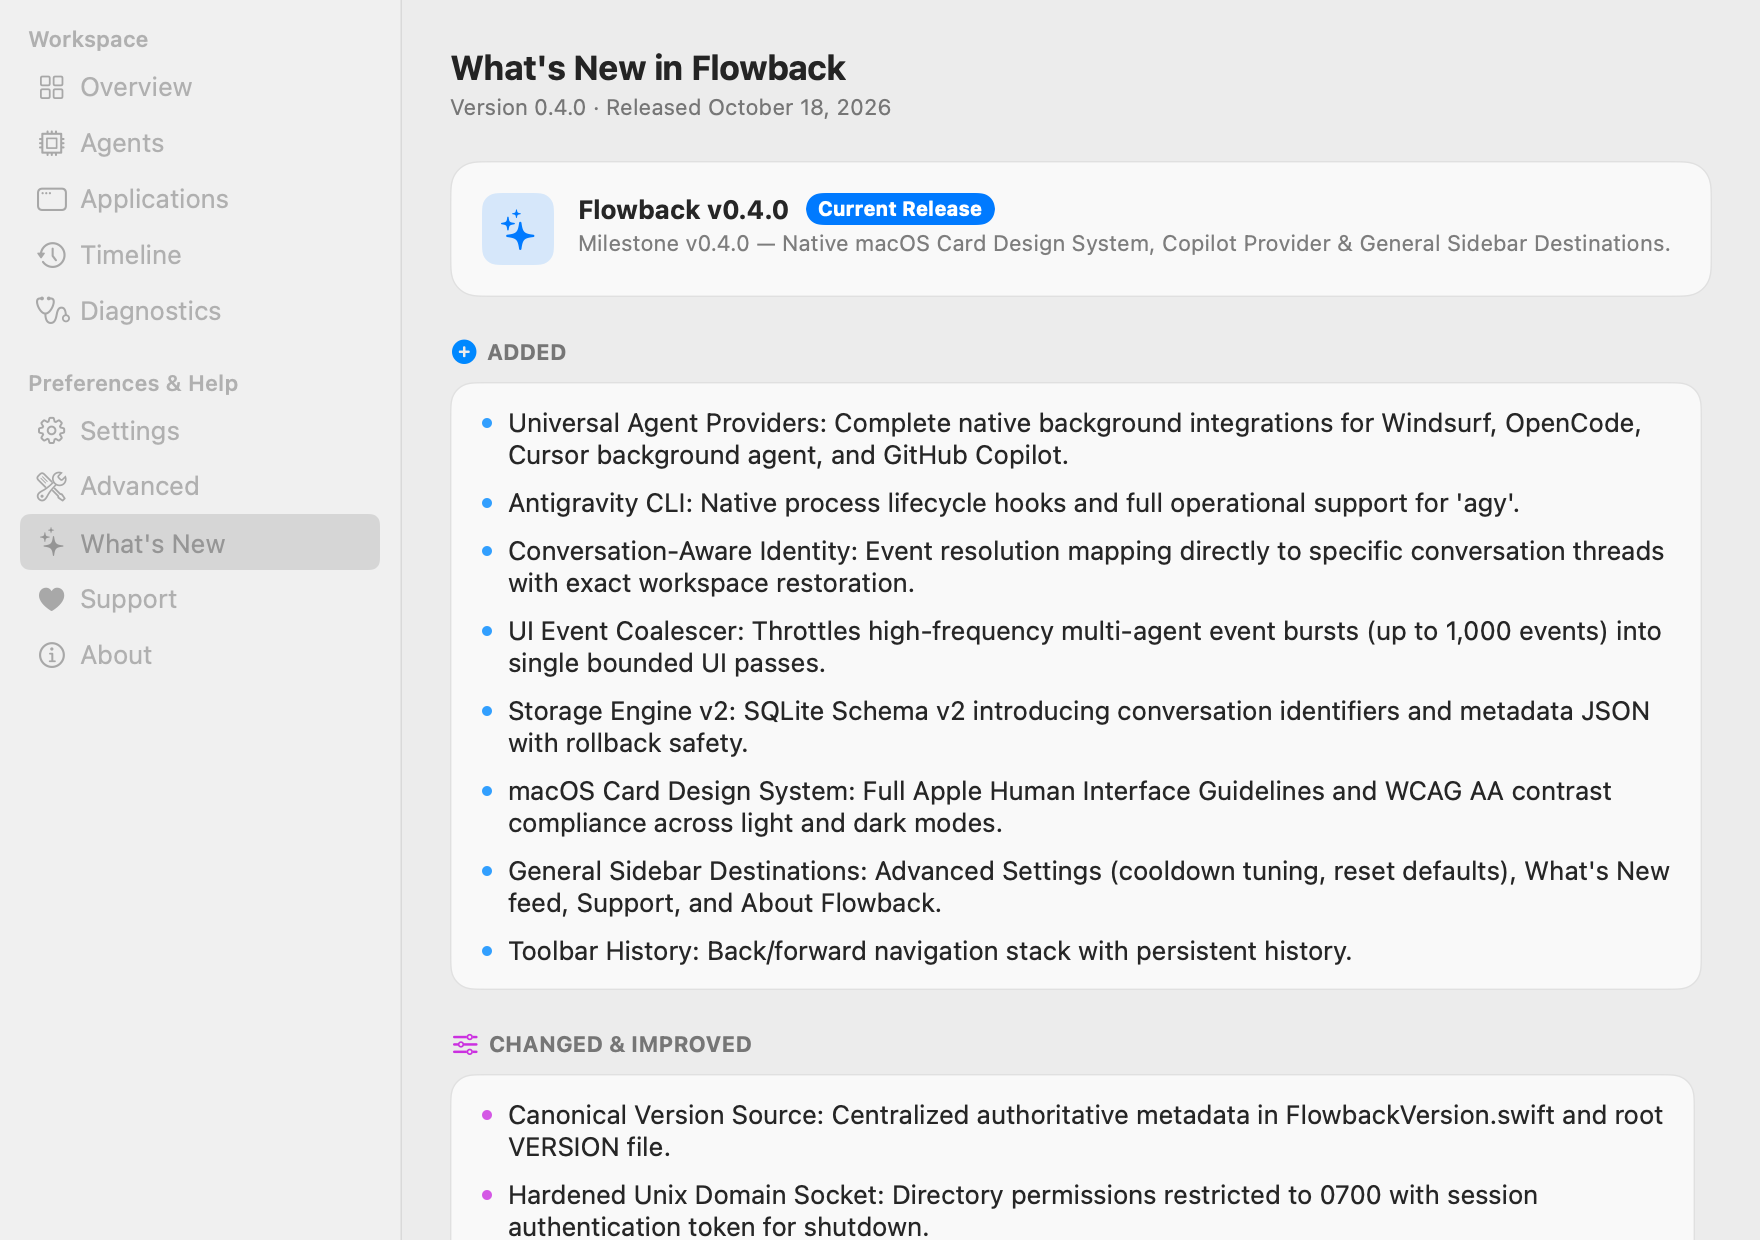
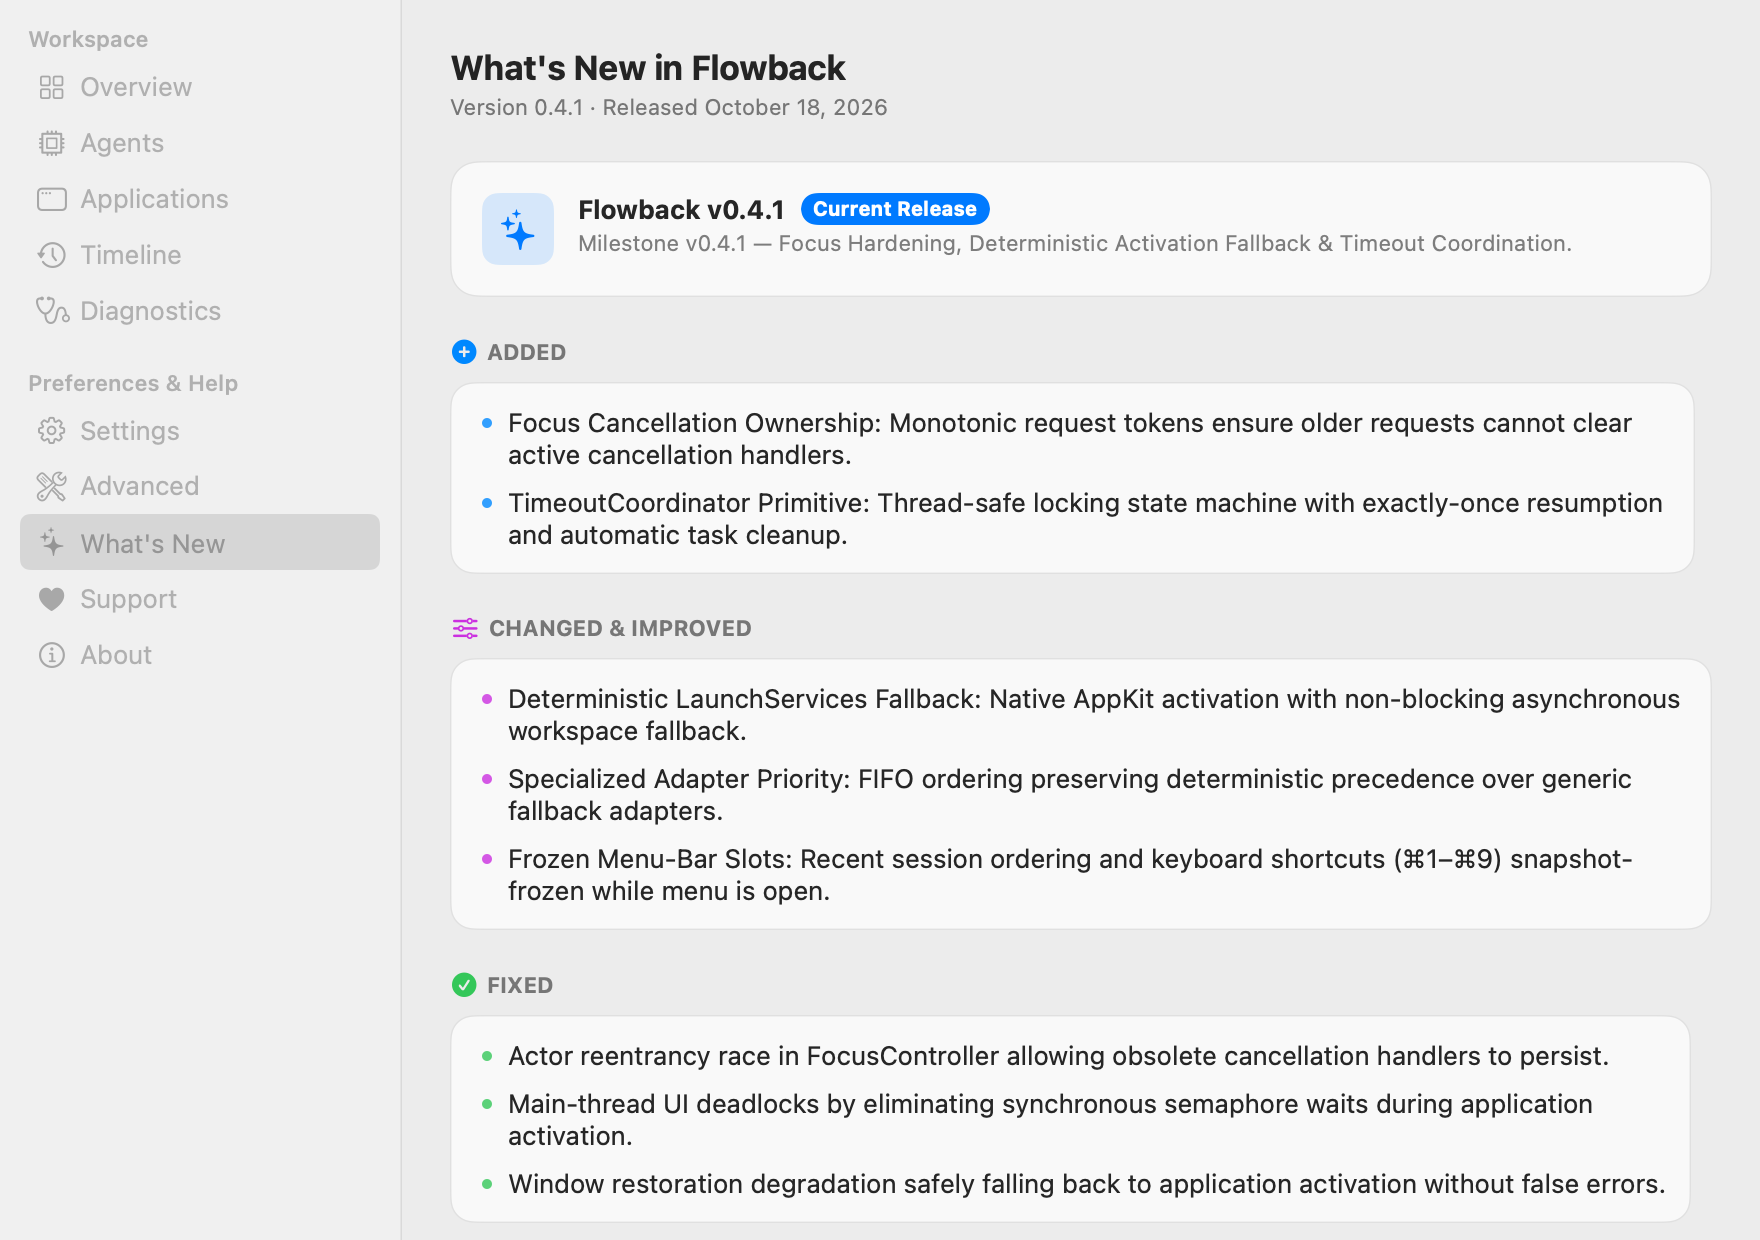
chore(release): bump version to v0.4.1 (build 2)

diff --git a/Sources/FlowbackUI/Common/ReleaseNotesModel.swift b/Sources/FlowbackUI/Common/ReleaseNotesModel.swift
@@ -44,6 +44,56 @@ public enum ReleaseNotesModel: Sendable {
     /// Canonical bundled release notes, sorted in reverse chronological order (latest first)
     public static let bundledNotes: [ReleaseNote] = [
         ReleaseNote(
+            id: "release-0.4.1",
+            version: "0.4.1",
+            date: "October 18, 2026",
+            summary: "Milestone v0.4.1 — Focus Hardening, Deterministic Activation Fallback & Timeout Coordination.",
+            sections: [
+                ReleaseNoteSection(
+                    title: "Added",
+                    icon: "plus.circle.fill",
+                    items: [
+                        "Focus Cancellation Ownership: Monotonic request tokens ensure older requests cannot clear active cancellation handlers.",
+                        "TimeoutCoordinator Primitive: Thread-safe locking state machine with exactly-once resumption and automatic task cleanup."
+                    ]
+                ),
+                ReleaseNoteSection(
+                    title: "Changed & Improved",
+                    icon: "slider.horizontal.3",
+                    items: [
+                        "Deterministic LaunchServices Fallback: Native AppKit activation with non-blocking asynchronous workspace fallback.",
+                        "Specialized Adapter Priority: FIFO ordering preserving deterministic precedence over generic fallback adapters.",
+                        "Frozen Menu-Bar Slots: Recent session ordering and keyboard shortcuts (⌘1–⌘9) snapshot-frozen while menu is open."
+                    ]
+                ),
+                ReleaseNoteSection(
+                    title: "Fixed",
+                    icon: "checkmark.circle.fill",
+                    items: [
+                        "Actor reentrancy race in FocusController allowing obsolete cancellation handlers to persist.",
+                        "Main-thread UI deadlocks by eliminating synchronous semaphore waits during application activation.",
+                        "Window restoration degradation safely falling back to application activation without false errors."
+                    ]
+                ),
+                ReleaseNoteSection(
+                    title: "Security & Privacy",
+                    icon: "lock.shield.fill",
+                    items: [
+                        "Strict Concurrency & Hardened Runtime: Elimination of continuation double-resumption and task handle retention.",
+                        "100% Local Isolation: Zero telemetry and complete local offline execution."
+                    ]
+                ),
+                ReleaseNoteSection(
+                    title: "Known Limitations",
+                    icon: "exclamationmark.triangle",
+                    items: [
+                        "macOS WindowServer security policies govern window raising across distinct macOS Spaces.",
+                        "Running without Accessibility permissions gracefully degrades to application-level switching rather than specific window raising."
+                    ]
+                )
+            ]
+        ),
+        ReleaseNote(
             id: "release-0.4.0",
             version: "0.4.0",
             date: "October 18, 2026",

diff --git a/Sources/FlowbackTestRunner/main.swift b/Sources/FlowbackTestRunner/main.swift
@@ -869,11 +869,11 @@ await runFocusHardeningAndConcurrencySuites()
 
 // 28. Canonical Version Metadata Consistency Suite
 await testGroup("Canonical Version Metadata Consistency") {
-    assertTest(FlowbackVersion.marketingVersion == "0.4.0", "FlowbackVersion marketingVersion is 0.4.0")
-    assertTest(FlowbackVersion.buildNumber == "1", "FlowbackVersion buildNumber is 1")
-    assertTest(FlowbackVersion.current == "0.4.0", "FlowbackVersion.current defaults to 0.4.0 outside bundle")
-    assertTest(FlowbackVersion.currentBuild == "1", "FlowbackVersion.currentBuild defaults to 1 outside bundle")
-    assertTest(FlowbackVersion.displayString.contains("Flowback v0.4.0 (build 1)"), "FlowbackVersion displayString formatted correctly")
+    assertTest(FlowbackVersion.marketingVersion == "0.4.1", "FlowbackVersion marketingVersion is 0.4.1")
+    assertTest(FlowbackVersion.buildNumber == "2", "FlowbackVersion buildNumber is 2")
+    assertTest(FlowbackVersion.current == "0.4.1", "FlowbackVersion.current defaults to 0.4.1 outside bundle")
+    assertTest(FlowbackVersion.currentBuild == "2", "FlowbackVersion.currentBuild defaults to 2 outside bundle")
+    assertTest(FlowbackVersion.displayString.contains("Flowback v0.4.1 (build 2)"), "FlowbackVersion displayString formatted correctly")
 
     let diag = DiagnosticReportContext()
     assertTest(diag.appVersion == FlowbackVersion.current, "DiagnosticReportContext adopts FlowbackVersion.current")

diff --git a/Sources/FlowbackTestRunner/GeneralSidebarDestinationsSuites.swift b/Sources/FlowbackTestRunner/GeneralSidebarDestinationsSuites.swift
@@ -272,7 +272,7 @@ func runGeneralSidebarDestinationsSuites() async {
             return
         }
 
-        assertTest(firstNote.version == "0.4.0", "V-021: Current release version is 0.4.0")
+        assertTest(firstNote.version == "0.4.1", "V-021: Current release version is 0.4.1")
         assertTest(firstNote.date == "October 18, 2026", "V-021: Release date is verified: October 18, 2026")
         assertTest(!firstNote.summary.isEmpty, "V-021: Release summary is defined")
         assertTest(firstNote.sections.count == 5, "V-021: Defines exactly 5 categorized subsections")
@@ -290,7 +290,7 @@ func runGeneralSidebarDestinationsSuites() async {
         }
 
         // Current helper returns latest
-        assertTest(ReleaseNotesModel.current?.version == "0.4.0", "V-021: ReleaseNotesModel.current returns latest version")
+        assertTest(ReleaseNotesModel.current?.version == "0.4.1", "V-021: ReleaseNotesModel.current returns latest version")
 
         // Offline Empty State Handling
         let emptyView = WhatsNewView(releaseNotes: [])

diff --git a/Sources/FlowbackCore/FlowbackVersion.swift b/Sources/FlowbackCore/FlowbackVersion.swift
@@ -3,10 +3,10 @@ import Foundation
 /// Canonical authoritative source of Flowback product versioning metadata.
 public struct FlowbackVersion: Sendable {
     /// Semantic product version (MAJOR.MINOR.PATCH)
-    public static let marketingVersion: String = "0.4.0"
+    public static let marketingVersion: String = "0.4.1"
 
     /// Monotonically increasing build number for bundle packaging
-    public static let buildNumber: String = "1"
+    public static let buildNumber: String = "2"
 
     /// Current version string, prioritizing CFBundleShortVersionString when running in an app bundle,
     /// falling back cleanly to canonical marketingVersion in standalone/CLI execution.

diff --git a/Formula/flowback-cli.rb b/Formula/flowback-cli.rb
@@ -1,8 +1,8 @@
 class FlowbackCli < Formula
   desc "Command-line interface for Flowback focus and context orchestrator"
   homepage "https://rapheljr.github.io/flowback/"
-  url "https://github.com/rapheljr/flowback/archive/refs/tags/v0.4.0.tar.gz"
-  version "0.4.0"
+  url "https://github.com/rapheljr/flowback/archive/refs/tags/v0.4.1.tar.gz"
+  version "0.4.1"
   sha256 "0000000000000000000000000000000000000000000000000000000000000000"
   license "MIT"
   head "https://github.com/rapheljr/flowback.git", branch: "main"

diff --git a/Casks/flowback.rb b/Casks/flowback.rb
@@ -1,5 +1,5 @@
 cask "flowback" do
-  version "0.4.0"
+  version "0.4.1"
[1 lines of base64/hex data omitted]
 
   url "https://github.com/rapheljr/flowback/releases/download/v#{version}/Flowback-#{version}-macos.zip"

diff --git a/CHANGELOG.md b/CHANGELOG.md
@@ -11,6 +11,26 @@ and this project adheres to [Semantic Versioning](https://semver.org/spec/v2.0.0
 
 ---
 
+## [0.4.1] - 2026-10-18
+
+### Fixed
+* **Focus Cancellation Ownership & Actor Reentrancy (F-01):**
+  * Associated active cancellation handlers with monotonic generation IDs, preventing superseded navigation requests from clearing newer cancellation handlers upon actor reentrancy.
+  * Ensured prompt cooperative cancellation propagation to child worker tasks upon arrival of newer navigation requests.
+* **Deterministic LaunchServices Fallback & Main-Thread Safety (F-02):**
+  * Added non-blocking asynchronous fallback via `NSWorkspace.openApplication` when direct AppKit activation fails.
+  * Synchronous fallback path explicitly avoids blocking the main thread on semaphores to eliminate UI deadlocks.
+* **TimeoutCoordinator Concurrency State Machine:**
+  * Strict thread-safe state transitions guarded by `NSLock`.
+  * Guarantees continuations resume at most once, captures continuations and tasks under lock, and executes resumptions and task cancellations outside the lock.
+  * Automatically purges child task handles upon reaching terminal completion to prevent retain cycles.
+* **Menu Bar Session Stability:**
+  * Freezes recent session ordering into an immutable snapshot upon menu opening, preserving stable keyboard shortcuts (⌘1–⌘9).
+* **Adapter Precedence:**
+  * Enforced stable FIFO ordering for specialized application adapters with `GenericApplicationAdapter` pinned at baseline priority.
+
+---
+
 ## [0.4.0] - 2026-10-18
 
 ### Added
